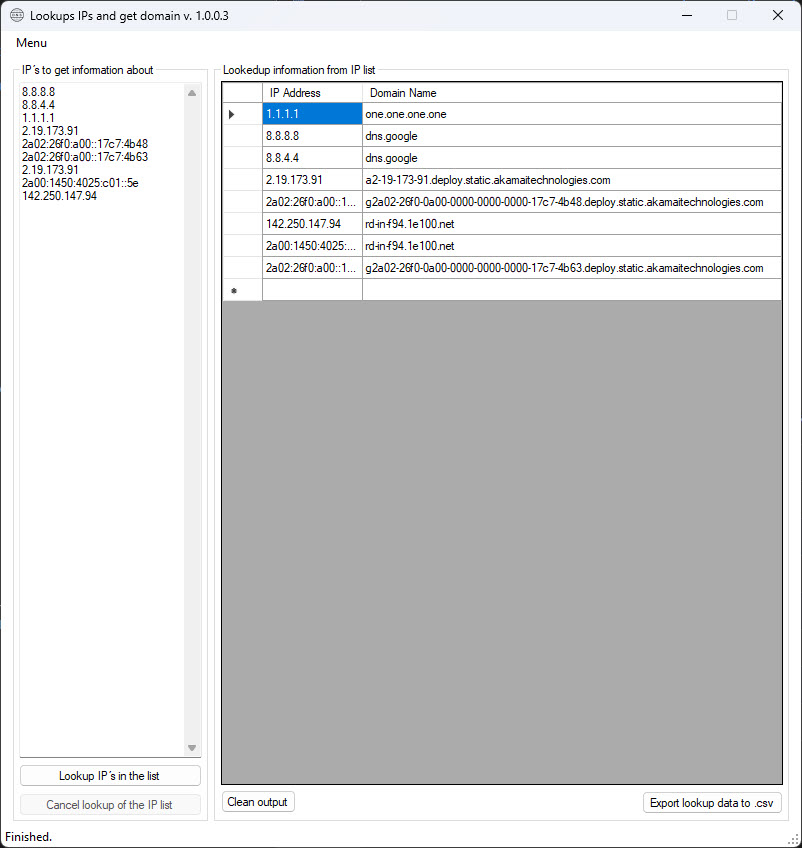
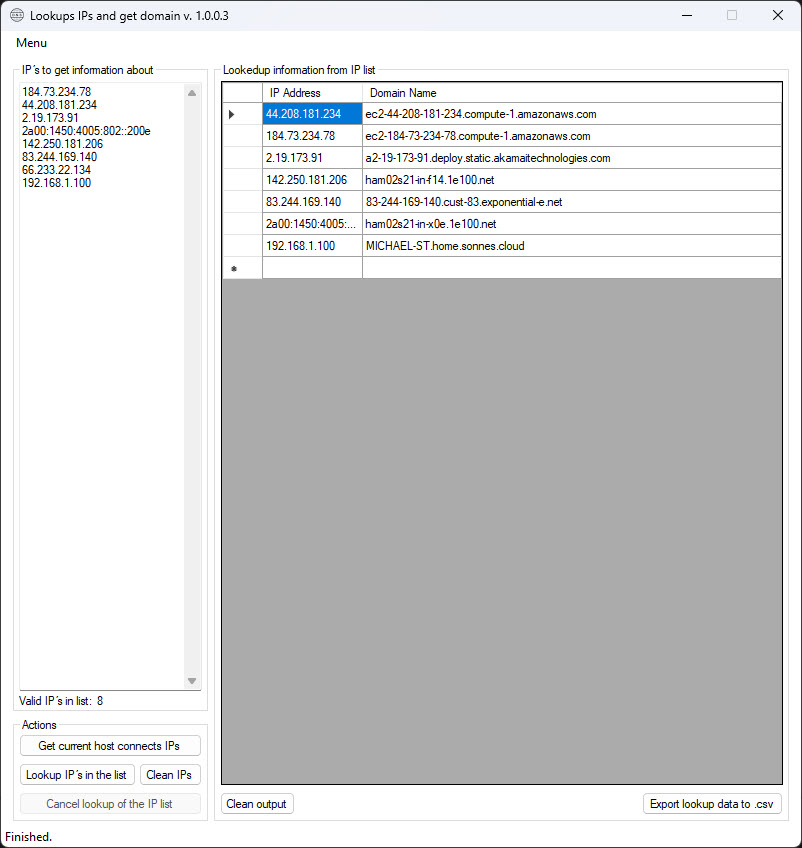
Update GUI and update picture of the tool in readme

diff --git a/IPtoDNSLookup/Forms/MainForm.Designer.cs b/IPtoDNSLookup/Forms/MainForm.Designer.cs
@@ -46,11 +46,15 @@
             this.loadIPsFromcsvFileToolStripMenuItem = new System.Windows.Forms.ToolStripMenuItem();
             this.aboutToolStripMenuItem = new System.Windows.Forms.ToolStripMenuItem();
             this.buttonGetCurrentConnectedIPs = new System.Windows.Forms.Button();
+            this.lblValidIPCount = new System.Windows.Forms.Label();
+            this.label1 = new System.Windows.Forms.Label();
+            this.groupBoxFormActions = new System.Windows.Forms.GroupBox();
             this.groupBoxIPs.SuspendLayout();
             this.groupBox1.SuspendLayout();
             ((System.ComponentModel.ISupportInitialize)(this.resultDataGridView)).BeginInit();
             this.statusStrip.SuspendLayout();
             this.menuStrip1.SuspendLayout();
+            this.groupBoxFormActions.SuspendLayout();
             this.SuspendLayout();
             // 
             // ipAddressTextBox
@@ -59,26 +63,25 @@
             this.ipAddressTextBox.Multiline = true;
             this.ipAddressTextBox.Name = "ipAddressTextBox";
             this.ipAddressTextBox.ScrollBars = System.Windows.Forms.ScrollBars.Both;
-            this.ipAddressTextBox.Size = new System.Drawing.Size(183, 647);
+            this.ipAddressTextBox.Size = new System.Drawing.Size(183, 609);
             this.ipAddressTextBox.TabIndex = 0;
+            this.ipAddressTextBox.TextChanged += new System.EventHandler(this.ipAddressTextBox_TextChanged);
             // 
             // groupBoxIPs
             // 
-            this.groupBoxIPs.Controls.Add(this.buttonGetCurrentConnectedIPs);
-            this.groupBoxIPs.Controls.Add(this.cleanupIPListButton);
-            this.groupBoxIPs.Controls.Add(this.cancelButton);
+            this.groupBoxIPs.Controls.Add(this.label1);
+            this.groupBoxIPs.Controls.Add(this.lblValidIPCount);
             this.groupBoxIPs.Controls.Add(this.ipAddressTextBox);
-            this.groupBoxIPs.Controls.Add(this.lookupButton);
             this.groupBoxIPs.Location = new System.Drawing.Point(12, 32);
             this.groupBoxIPs.Name = "groupBoxIPs";
-            this.groupBoxIPs.Size = new System.Drawing.Size(195, 759);
+            this.groupBoxIPs.Size = new System.Drawing.Size(195, 649);
             this.groupBoxIPs.TabIndex = 1;
             this.groupBoxIPs.TabStop = false;
             this.groupBoxIPs.Text = "IP´s to get information about";
             // 
             // cleanupIPListButton
             // 
-            this.cleanupIPListButton.Location = new System.Drawing.Point(126, 701);
+            this.cleanupIPListButton.Location = new System.Drawing.Point(126, 45);
             this.cleanupIPListButton.Name = "cleanupIPListButton";
             this.cleanupIPListButton.Size = new System.Drawing.Size(63, 23);
             this.cleanupIPListButton.TabIndex = 4;
@@ -89,7 +92,7 @@
             // cancelButton
             // 
             this.cancelButton.Enabled = false;
-            this.cancelButton.Location = new System.Drawing.Point(6, 730);
+            this.cancelButton.Location = new System.Drawing.Point(6, 74);
             this.cancelButton.Name = "cancelButton";
             this.cancelButton.Size = new System.Drawing.Size(183, 23);
             this.cancelButton.TabIndex = 3;
@@ -99,7 +102,7 @@
             // 
             // lookupButton
             // 
-            this.lookupButton.Location = new System.Drawing.Point(6, 701);
+            this.lookupButton.Location = new System.Drawing.Point(6, 45);
             this.lookupButton.Name = "lookupButton";
             this.lookupButton.Size = new System.Drawing.Size(117, 23);
             this.lookupButton.TabIndex = 2;
@@ -146,6 +149,7 @@
             this.resultDataGridView.ColumnHeadersHeightSizeMode = System.Windows.Forms.DataGridViewColumnHeadersHeightSizeMode.AutoSize;
             this.resultDataGridView.Location = new System.Drawing.Point(7, 18);
             this.resultDataGridView.Name = "resultDataGridView";
+            this.resultDataGridView.ReadOnly = true;
             this.resultDataGridView.Size = new System.Drawing.Size(562, 704);
             this.resultDataGridView.TabIndex = 0;
             // 
@@ -205,7 +209,7 @@
             // 
             // buttonGetCurrentConnectedIPs
             // 
-            this.buttonGetCurrentConnectedIPs.Location = new System.Drawing.Point(6, 672);
+            this.buttonGetCurrentConnectedIPs.Location = new System.Drawing.Point(6, 16);
             this.buttonGetCurrentConnectedIPs.Name = "buttonGetCurrentConnectedIPs";
             this.buttonGetCurrentConnectedIPs.Size = new System.Drawing.Size(183, 23);
             this.buttonGetCurrentConnectedIPs.TabIndex = 5;
@@ -213,12 +217,44 @@
             this.buttonGetCurrentConnectedIPs.UseVisualStyleBackColor = true;
             this.buttonGetCurrentConnectedIPs.Click += new System.EventHandler(this.buttonGetCurrentConnectedIPs_Click);
             // 
+            // lblValidIPCount
+            // 
+            this.lblValidIPCount.AutoSize = true;
+            this.lblValidIPCount.Location = new System.Drawing.Point(81, 631);
+            this.lblValidIPCount.Name = "lblValidIPCount";
+            this.lblValidIPCount.Size = new System.Drawing.Size(13, 13);
+            this.lblValidIPCount.TabIndex = 6;
+            this.lblValidIPCount.Text = "0";
+            // 
+            // label1
+            // 
+            this.label1.AutoSize = true;
+            this.label1.Location = new System.Drawing.Point(3, 631);
+            this.label1.Name = "label1";
+            this.label1.Size = new System.Drawing.Size(80, 13);
+            this.label1.TabIndex = 7;
+            this.label1.Text = "Valid IP´s in list:";
+            // 
+            // groupBoxFormActions
+            // 
+            this.groupBoxFormActions.Controls.Add(this.buttonGetCurrentConnectedIPs);
+            this.groupBoxFormActions.Controls.Add(this.cleanupIPListButton);
+            this.groupBoxFormActions.Controls.Add(this.lookupButton);
+            this.groupBoxFormActions.Controls.Add(this.cancelButton);
+            this.groupBoxFormActions.Location = new System.Drawing.Point(12, 687);
+            this.groupBoxFormActions.Name = "groupBoxFormActions";
+            this.groupBoxFormActions.Size = new System.Drawing.Size(195, 104);
+            this.groupBoxFormActions.TabIndex = 6;
+            this.groupBoxFormActions.TabStop = false;
+            this.groupBoxFormActions.Text = "Actions";
+            // 
             // MainForm
             // 
             this.AutoScaleDimensions = new System.Drawing.SizeF(6F, 13F);
             this.AutoScaleMode = System.Windows.Forms.AutoScaleMode.Font;
             this.BackColor = System.Drawing.Color.White;
             this.ClientSize = new System.Drawing.Size(800, 816);
+            this.Controls.Add(this.groupBoxFormActions);
             this.Controls.Add(this.statusStrip);
             this.Controls.Add(this.menuStrip1);
             this.Controls.Add(this.groupBox1);
@@ -239,6 +275,7 @@
             this.statusStrip.PerformLayout();
             this.menuStrip1.ResumeLayout(false);
             this.menuStrip1.PerformLayout();
+            this.groupBoxFormActions.ResumeLayout(false);
             this.ResumeLayout(false);
             this.PerformLayout();
 
@@ -263,6 +300,9 @@
         private System.Windows.Forms.ToolStripMenuItem loadIPsFromcsvFileToolStripMenuItem;
         private System.Windows.Forms.Button cleanupIPListButton;
         private System.Windows.Forms.Button buttonGetCurrentConnectedIPs;
+        private System.Windows.Forms.Label label1;
+        private System.Windows.Forms.Label lblValidIPCount;
+        private System.Windows.Forms.GroupBox groupBoxFormActions;
     }
 }
 

diff --git a/IPtoDNSLookup/Forms/MainForm.cs b/IPtoDNSLookup/Forms/MainForm.cs
@@ -100,6 +100,7 @@ namespace LookupsIPsToDNS.Forms
             {
                 var invalidIpList = string.Join("\n", iPs);
                 var result = MessageBox.Show($@"The following IP addresses are invalid:
+
 {invalidIpList}
 
 Do you want to remove them?", @"Invalid IP Address", MessageBoxButtons.YesNo, MessageBoxIcon.Question);
@@ -362,6 +363,30 @@ Do you want to remove them?", @"Invalid IP Address", MessageBoxButtons.YesNo, Me
             }
         }
 
+        private int CountValidIPs(string[] lines)
+        {
+            int validIPCount = 0;
+
+            foreach (string line in lines)
+            {
+                // Trim each line to remove leading and trailing whitespaces
+                string trimmedLine = line.Trim();
+
+                // Check if the trimmed line is a valid IP address
+                if (!string.IsNullOrEmpty(trimmedLine) && IPAddress.TryParse(trimmedLine, out IPAddress ipAddress))
+                {
+                    // Check the number of octets (IPv4) or the presence of colons (IPv6)
+                    if ((ipAddress.AddressFamily == System.Net.Sockets.AddressFamily.InterNetwork && trimmedLine.Split('.').Length == 4) ||
+                        (ipAddress.AddressFamily == System.Net.Sockets.AddressFamily.InterNetworkV6 && trimmedLine.Contains(':')))
+                    {
+                        validIPCount++;
+                    }
+                }
+            }
+
+            return validIPCount;
+        }
+
         #endregion Main shared code
 
         #region Menu code
@@ -525,6 +550,24 @@ Do you want to remove them?", @"Invalid IP Address", MessageBoxButtons.YesNo, Me
         }
 
         #endregion Form code
-        
+
+        private void ipAddressTextBox_TextChanged(object sender, EventArgs e)
+        {
+            try
+            {
+                // Split the multiline TextBox text into lines
+                string[] lines = ipAddressTextBox.Text.Split('\n');
+
+                // Count the number of valid IP addresses
+                int validIPCount = CountValidIPs(lines);
+
+                // Display the result
+                lblValidIPCount.Text = $@"{validIPCount}";
+            }
+            catch (Exception ex)
+            {
+                MessageBox.Show($@"Error counting valid IP addresses: {ex.Message}", @"Error", MessageBoxButtons.OK, MessageBoxIcon.Error);
+            }
+        }
     }
 }
